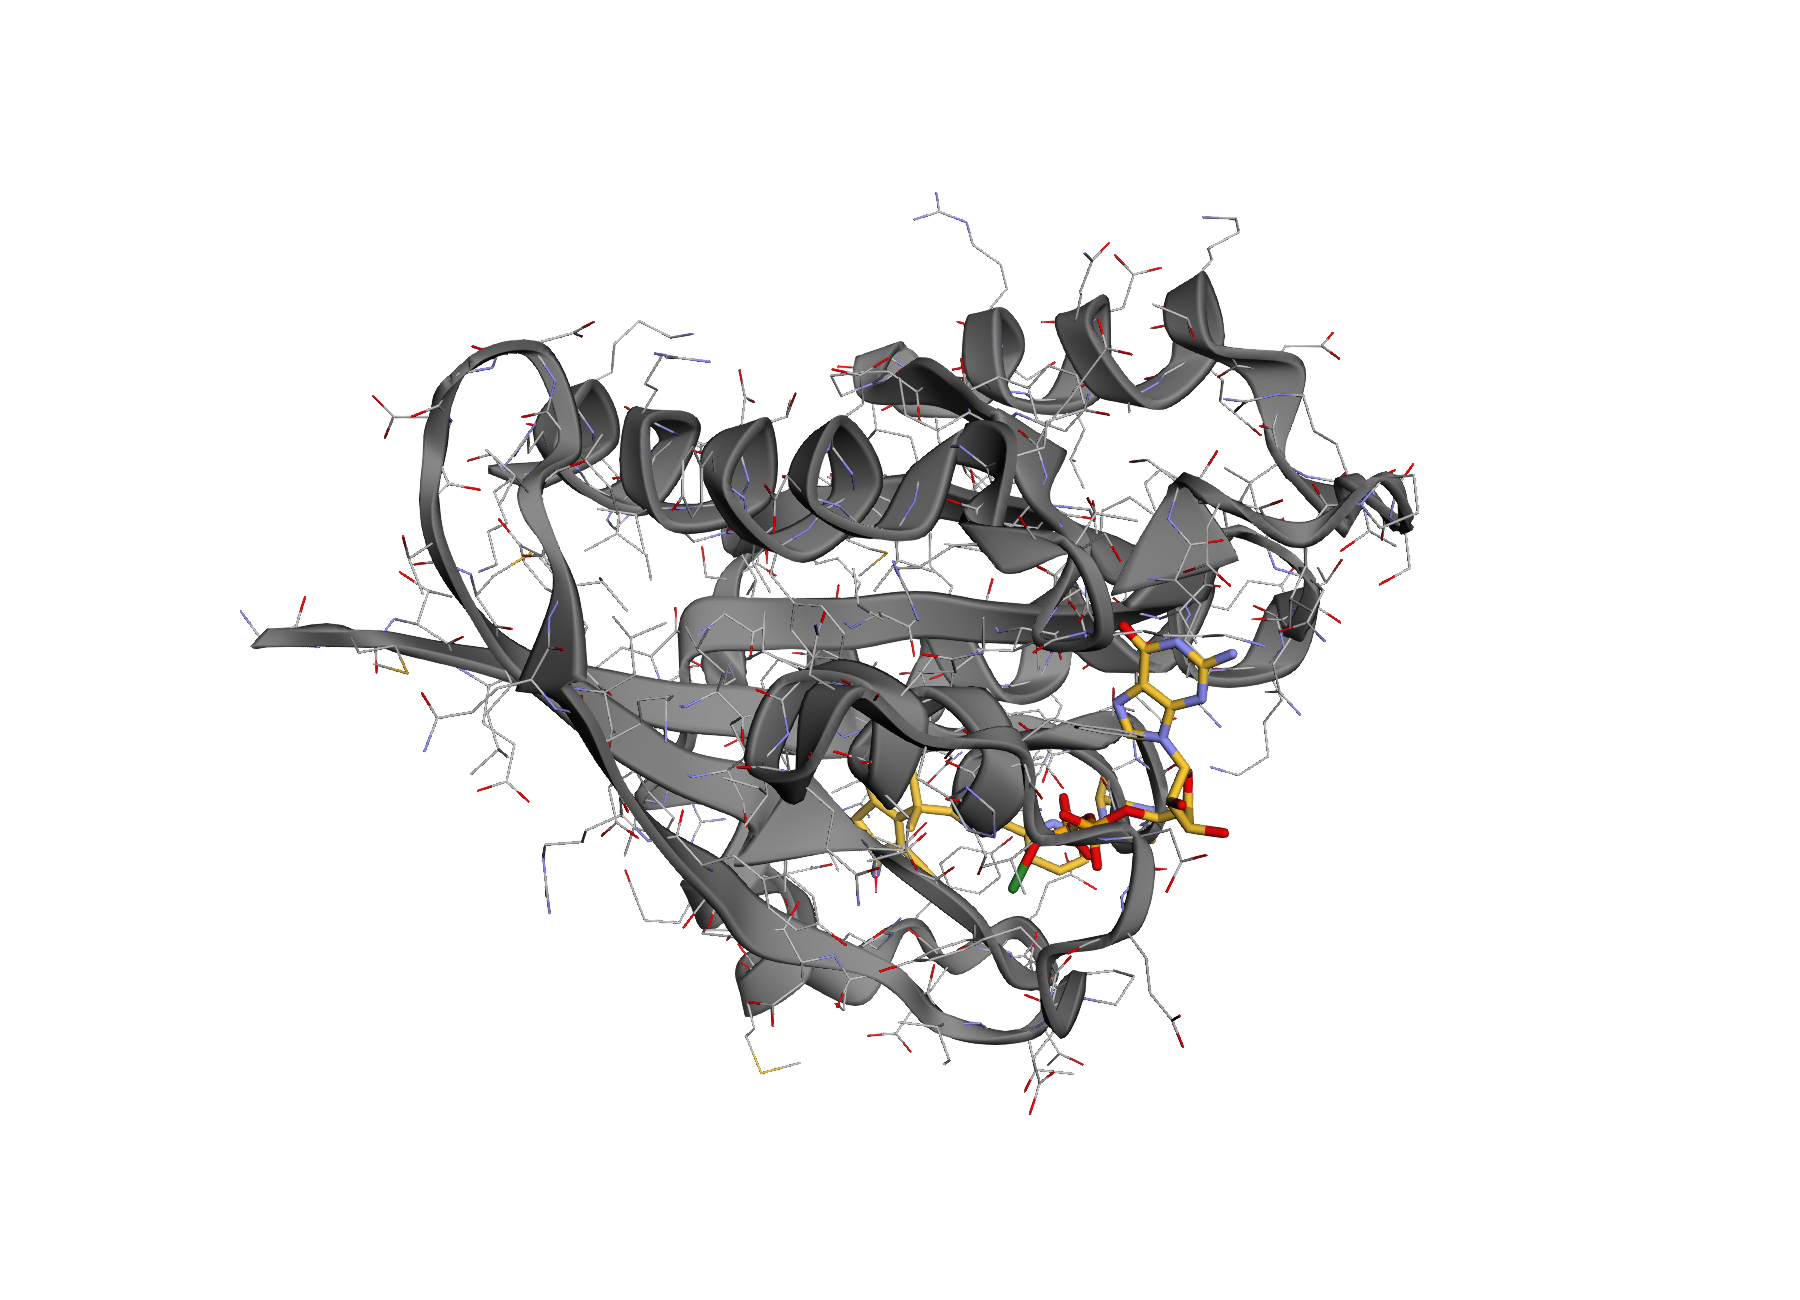
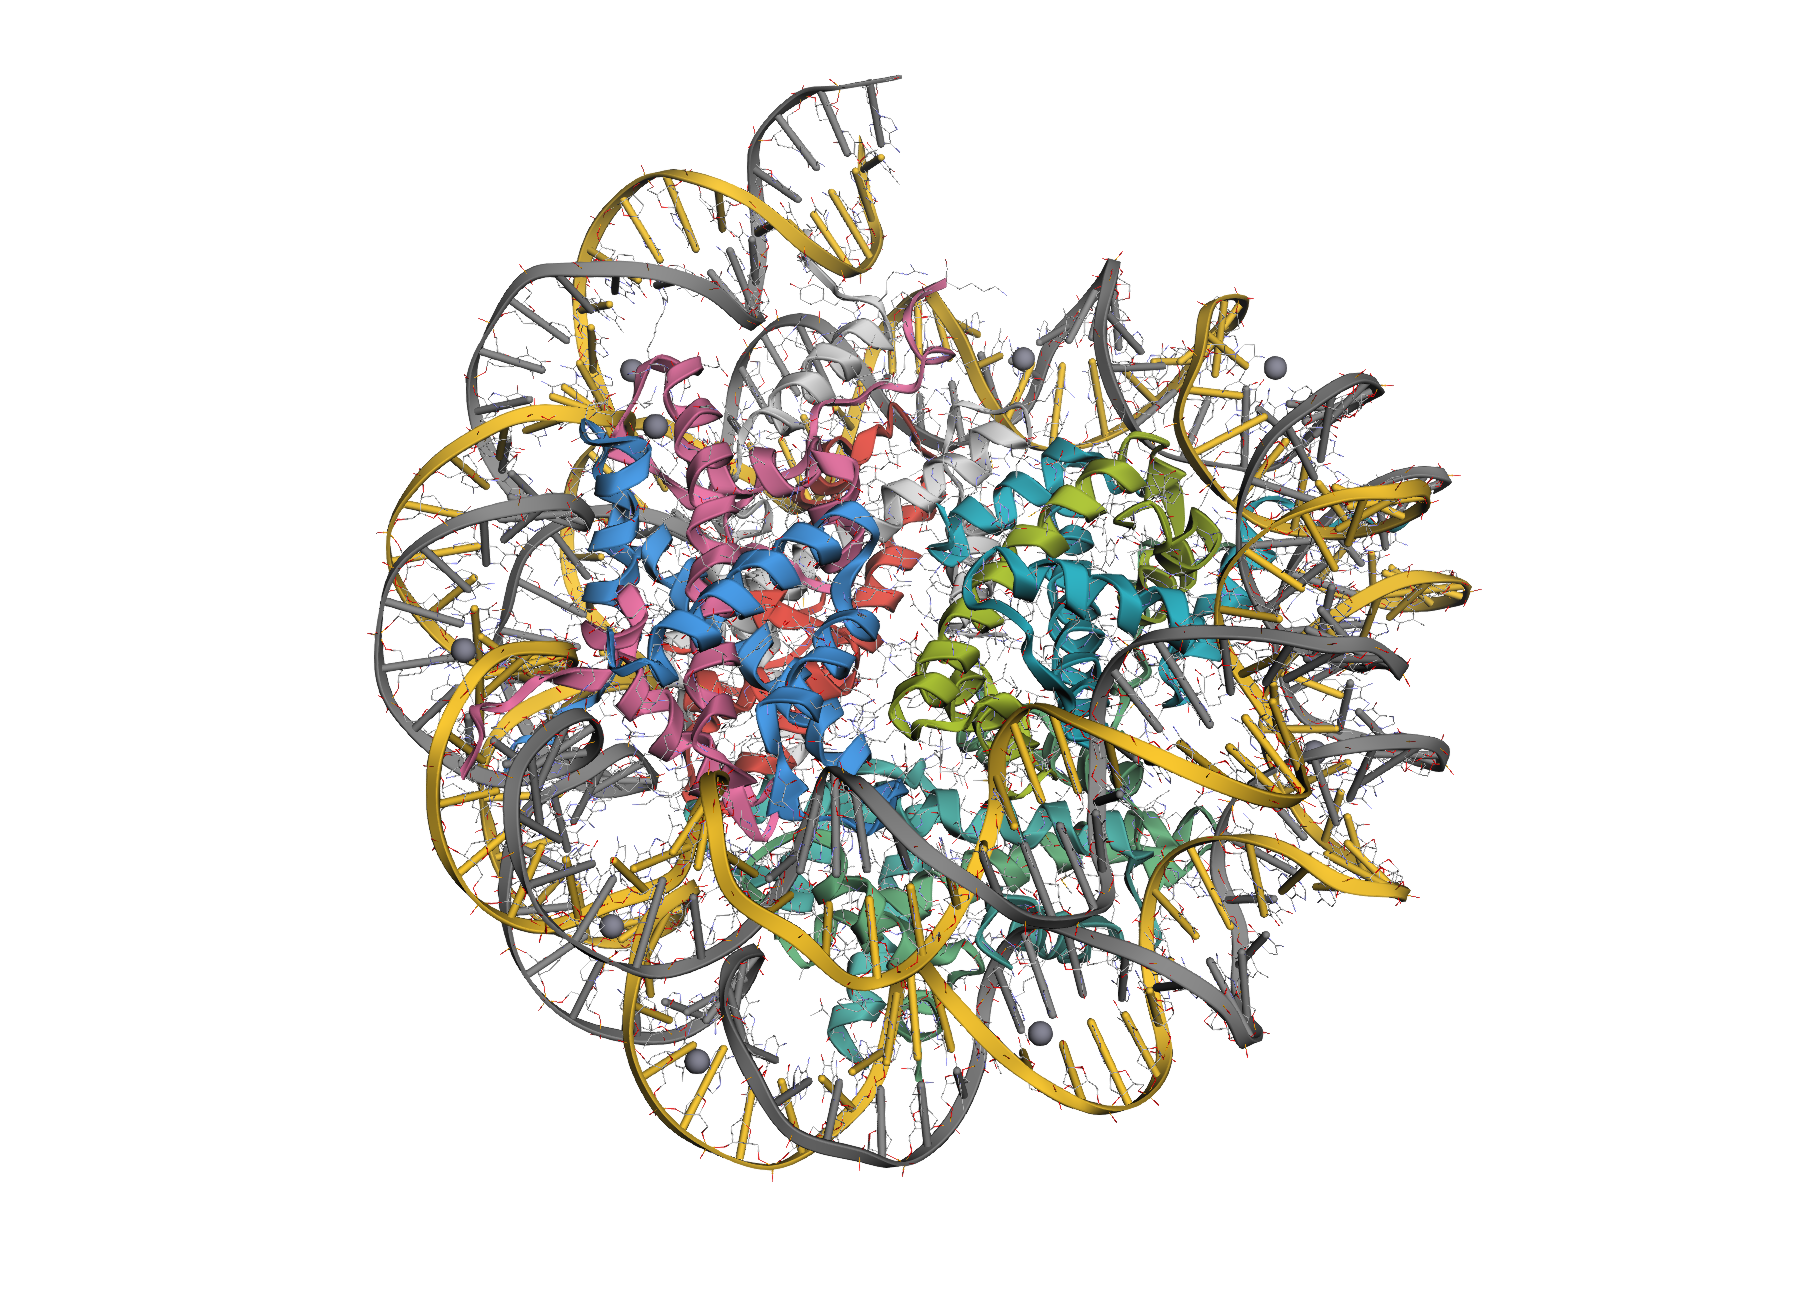
Update README gallery section to reflect new image for ligand focus and surface overlay; replace images for mixed complex and adjust descriptions accordingly.

Changed region(s): [[0.1244, 0.0615, 0.84, 0.9231]]

diff --git a/README.md b/README.md
@@ -40,15 +40,15 @@ view(structure)
 
 ## Gallery
 
-| Default protein view | Ligand focus |
+| Default protein view | Surface overlay |
 |---|---|
-| ![Chain-coloured cartoon rendering of hemoglobin](docs/images/default-protein.png) | ![Zoomed protein-ligand rendering with ligand sticks](docs/images/ligand-focus.png) |
-| One-line rendering with automatic chain colouring. | Zoom to a ligand or binding-site selection. |
+| ![Chain-coloured cartoon rendering of hemoglobin](docs/images/default-protein.png) | ![Hemoglobin with translucent molecular surface](docs/images/surface-overlay.png) |
+| One-line rendering with automatic chain colouring. | Optional translucent VDW surface for shape context. |
 
-| Surface overlay | Mixed complex |
+| Ligand focus | Mixed complex |
 |---|---|
-| ![Hemoglobin with translucent molecular surface](docs/images/surface-overlay.png) | ![Mixed biomolecular complex with ligand sticks](docs/images/mixed-complex.png) |
-| Optional translucent VDW surface for shape context. | Proteins, nucleic acids, ligands, and ions styled together. |
+| ![4TOS protein-ligand rendering with ligand sticks](docs/images/ligand-focus.png) | ![2CV5 protein-DNA complex rendering](docs/images/mixed-complex.png) |
+| Zoom to a ligand or binding-site selection. | Proteins, nucleic acids, ligands, and ions styled together. |
 
 ## API
 